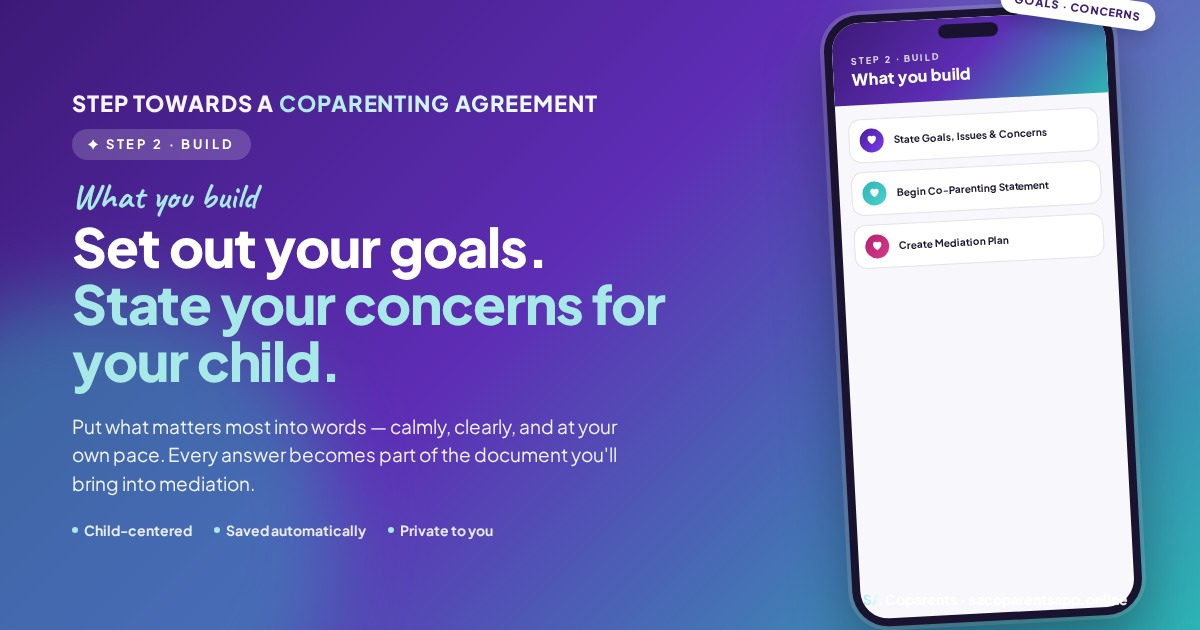
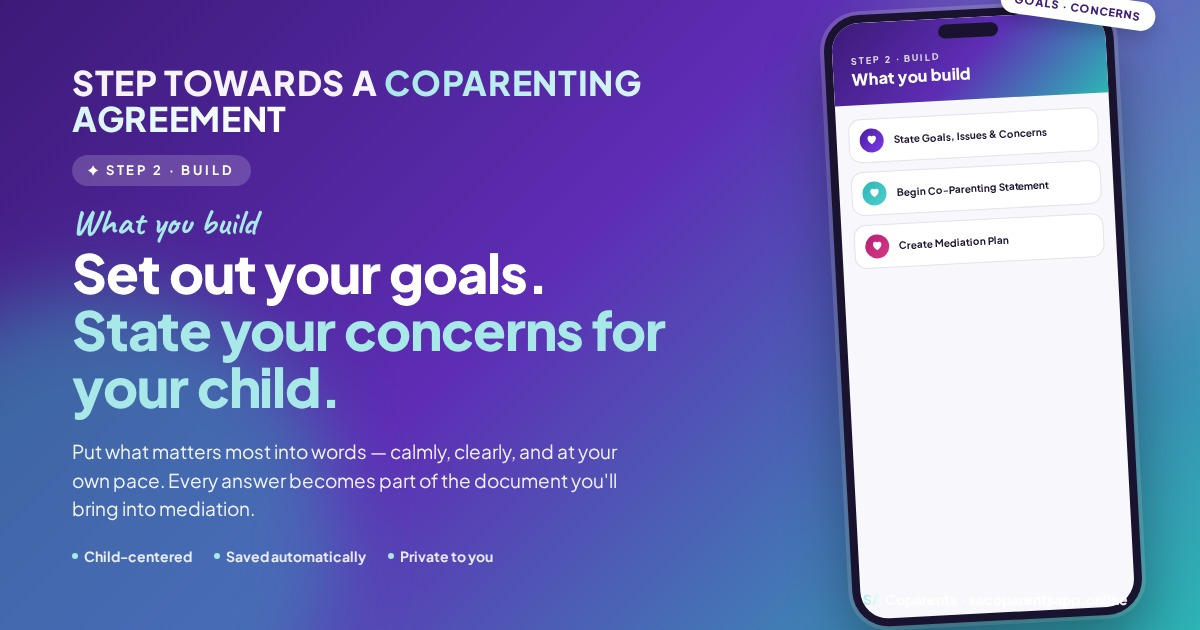
auto-commit for 5c30c0d8-e7d9-49aa-8b18-22f31f966e42

Changed region(s): [[0.0617, 0.0905, 0.555, 0.9048]]

diff --git a/frontend/public/goals-poster.html b/frontend/public/goals-poster.html
@@ -21,9 +21,9 @@
       height: 100%; padding: 64px 72px; gap: 56px; }
     .left { max-width: 640px; }
     .top-headline {
-      font-size: 22px; font-weight: 800; letter-spacing: 0.04em;
+      font-size: 34px; font-weight: 800; letter-spacing: 0.02em;
       text-transform: uppercase; color: rgba(255,255,255,0.95);
-      margin-bottom: 14px; line-height: 1.1;
+      margin-bottom: 18px; line-height: 1.05;
     }
     .top-headline .accent {
       background: linear-gradient(90deg, #A8E8E8, #fff);
